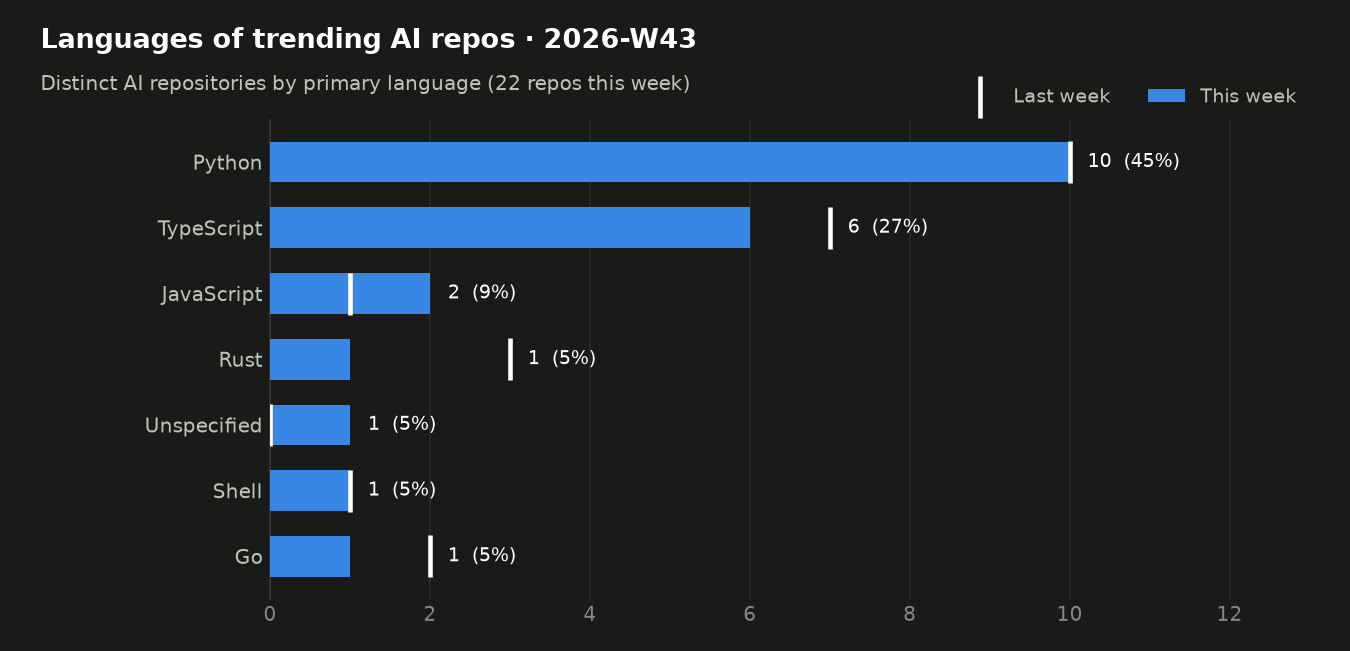
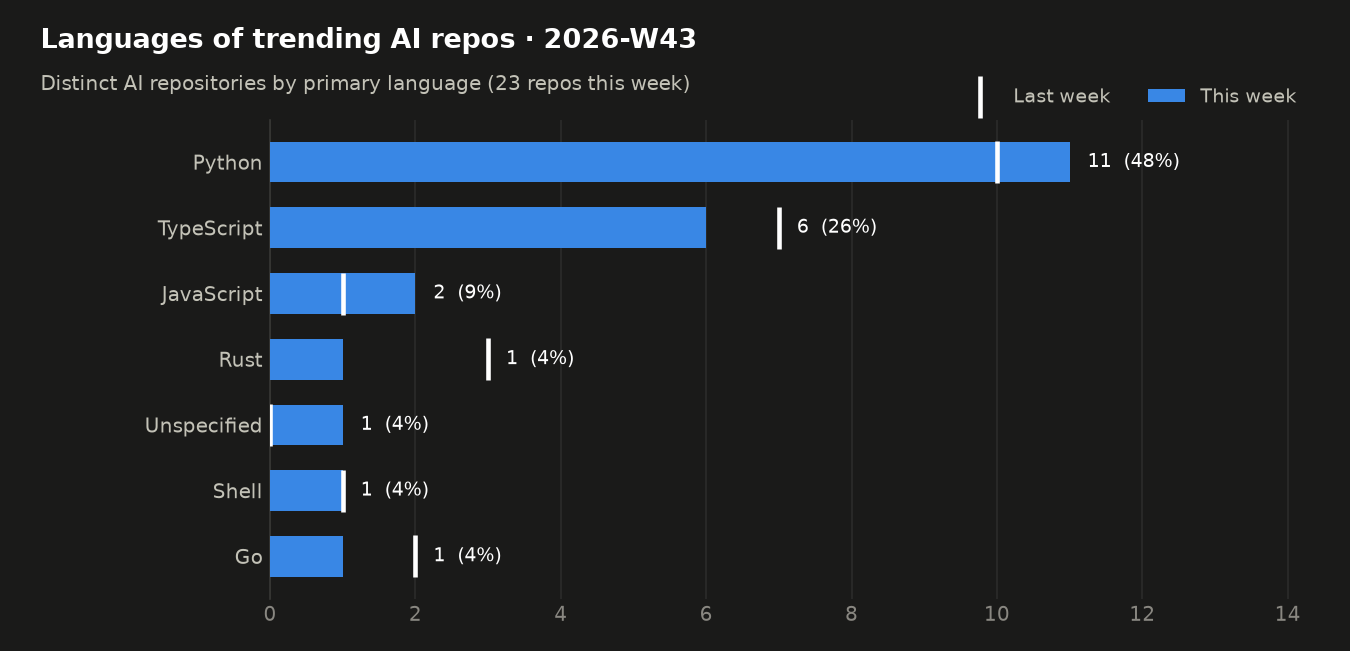
trending: snapshot 2026-10-23

diff --git a/README.md b/README.md
@@ -7,31 +7,26 @@ Every morning a GitHub Actions workflow reads the GitHub trending page, looks up
 ## Live view
 
 <!-- TRACKER_START -->
-### 🔥 AI repos trending today · 2026-10-22
+### 🔥 AI repos trending today · 2026-10-23
 
-11 of 12 trending repositories are AI-related.
+6 of 9 trending repositories are AI-related.
 
 | # | Repo | Language | ⭐ today | ⭐ total | Topics |
 |--:|---|---|--:|--:|---|
-| 1 | [cloudflare/security-audit-skill](https://github.com/cloudflare/security-audit-skill)<br><sub>Star cloudflare / security-audit-skill A coding-agent skill for multi-phase security audit…</sub> | JavaScript | 2,012 | 37,469 | – |
-| 2 | [vllm-project/vllm](https://github.com/vllm-project/vllm)<br><sub>Sponsor Star vllm-project / vllm A high-throughput and memory-efficient inference and serv…</sub> | Python | 441 | 95,022 | `amd` `blackwell` `cuda` `deepseek` |
-| 3 | [stablyai/orca](https://github.com/stablyai/orca)<br><sub>Star stablyai / orca Orca is the place for working with a fleet of agents (e.g. Grok Bot, …</sub> | TypeScript | 1,541 | 101,811 | `ade` `agent-ide` `ai-agents` `automation` |
-| 4 | [headroomlabs-ai/headroom](https://github.com/headroomlabs-ai/headroom)<br><sub>Star headroomlabs-ai / headroom Compress tool outputs, logs, files, and RAG chunks before …</sub> | Python | 474 | 77,411 | `agent` `ai` `anthropic` `claude-code` |
-| 5 | [DietrichGebert/ponytail](https://github.com/DietrichGebert/ponytail)<br><sub>Sponsor Star DietrichGebert / ponytail Makes your AI agent think like the laziest senior d…</sub> | JavaScript | 2,079 | 172,190 | `agent-skills` `ai-agents` `claude` `claude-code` |
-| 6 | [Comfy-Org/ComfyUI](https://github.com/Comfy-Org/ComfyUI)<br><sub>Star Comfy-Org / ComfyUI The most powerful and modular diffusion model GUI, api and backen…</sub> | Python | 939 | 141,738 | `ai` `comfy` `comfyui` `python` |
-| 7 | [supabase/supabase](https://github.com/supabase/supabase)<br><sub>Sponsor Star supabase / supabase The Postgres development platform. Supabase gives you a d…</sub> | TypeScript | 504 | 113,174 | `ai` `alternative` `auth` `database` |
-| 8 | [twentyhq/twenty](https://github.com/twentyhq/twenty)<br><sub>Star twentyhq / twenty The open alternative to Salesforce, designed for AI.</sub> | TypeScript | 112 | 59,398 | `crm` `crm-system` `customer` `good-first-issue` |
-| 10 | [strelov1/freehire](https://github.com/strelov1/freehire)<br><sub>Sponsor Star strelov1 / freehire freehire — the open-source search engine for job seekers</sub> | Go | 360 | 2,563 | `ats` `career` `careers` `golang` |
-| 11 | [akitaonrails/ai-memory](https://github.com/akitaonrails/ai-memory)<br><sub>Star akitaonrails / ai-memory Solution for long term memory for agent coding CLIs and to f…</sub> | Rust | 286 | 12,537 | – |
-| 12 | [Graphify-Labs/graphify](https://github.com/Graphify-Labs/graphify)<br><sub>Star Graphify-Labs / graphify Turn any codebase, with its docs, SQL schemas, configs, and …</sub> | Python | 1,433 | 132,017 | `ai-agents` `antigravity` `ast` `claude-code` |
+| 2 | [anthropics/knowledge-work-plugins](https://github.com/anthropics/knowledge-work-plugins)<br><sub>Star anthropics / knowledge-work-plugins Open source repository of plugins primarily inten…</sub> | Python | 303 | 31,791 | – |
+| 3 | [DietrichGebert/ponytail](https://github.com/DietrichGebert/ponytail)<br><sub>Sponsor Star DietrichGebert / ponytail Makes your AI agent think like the laziest senior d…</sub> | JavaScript | 1,948 | 173,995 | `agent-skills` `ai-agents` `claude` `claude-code` |
+| 4 | [cloudflare/security-audit-skill](https://github.com/cloudflare/security-audit-skill)<br><sub>Star cloudflare / security-audit-skill A coding-agent skill for multi-phase security audit…</sub> | JavaScript | 2,979 | 40,204 | – |
+| 5 | [Graphify-Labs/graphify](https://github.com/Graphify-Labs/graphify)<br><sub>Star Graphify-Labs / graphify Turn any codebase, with its docs, SQL schemas, configs, and …</sub> | Python | 1,408 | 133,336 | `ai-agents` `antigravity` `ast` `claude-code` |
+| 6 | [supabase/supabase](https://github.com/supabase/supabase)<br><sub>Sponsor Star supabase / supabase The Postgres development platform. Supabase gives you a d…</sub> | TypeScript | 693 | 113,607 | `ai` `alternative` `auth` `database` |
+| 8 | [luongnv89/claude-howto](https://github.com/luongnv89/claude-howto)<br><sub>Sponsor Star luongnv89 / claude-howto A visual, example-driven guide to Claude Code — from…</sub> | Python | 177 | 43,546 | `claude-code` `guide` `tutorial` |
 
 ### 📊 This week so far · 2026-W43
 
 #### Summary
 
-- **22** distinct AI repos trended over 4 day(s) (last week: 27)
-- AI share of all trending slots: **84%** (+6 pts vs last week)
-- Dominant language: **Python** (45% of AI repos)
+- **23** distinct AI repos trended over 5 day(s) (last week: 27)
+- AI share of all trending slots: **82%** (+4 pts vs last week)
+- Dominant language: **Python** (48% of AI repos)
 - Rising topics: `cursor` (+3), `postgresql` (+3), `claude-code-plugin` (+2), `cursor-rules` (+2), `langchain` (+2)
 - New this week: `cursor`, `postgresql`, `pytorch`, `langchain`, `claude-code-plugin`, `cursor-rules`
 
@@ -41,13 +36,13 @@ Every morning a GitHub Actions workflow reads the GitHub trending page, looks up
 
 | Language | Repos | Share | Last week |
 |---|--:|--:|--:|
-| Python | 10 | 45% | 10 |
-| TypeScript | 6 | 27% | 7 |
+| Python | 11 | 48% | 10 |
+| TypeScript | 6 | 26% | 7 |
 | JavaScript | 2 | 9% | 1 |
-| Rust | 1 | 5% | 3 |
-| Unspecified | 1 | 5% | 0 |
-| Shell | 1 | 5% | 1 |
-| Go | 1 | 5% | 2 |
+| Rust | 1 | 4% | 3 |
+| Unspecified | 1 | 4% | 0 |
+| Shell | 1 | 4% | 1 |
+| Go | 1 | 4% | 2 |
 
 #### Topics
 
@@ -55,7 +50,7 @@ Every morning a GitHub Actions workflow reads the GitHub trending page, looks up
 
 | Topic | Repos this week |
 |---|--:|
-| `claude-code` | 7 |
+| `claude-code` | 8 |
 | `ai-agents` | 6 |
 | `mcp` | 4 |
 | `codex` | 4 |
@@ -75,17 +70,17 @@ Every morning a GitHub Actions workflow reads the GitHub trending page, looks up
 | [stablyai/orca](https://github.com/stablyai/orca) | TypeScript | 4 | 5,842 | 101,811 |
 | [Comfy-Org/ComfyUI](https://github.com/Comfy-Org/ComfyUI) | Python | 4 | 3,310 | 141,738 |
 | [MadsLorentzen/ai-job-search](https://github.com/MadsLorentzen/ai-job-search) | Python | 3 | 9,949 | 61,499 |
+| [cloudflare/security-audit-skill](https://github.com/cloudflare/security-audit-skill) | JavaScript | 3 | 6,703 | 40,204 |
+| [DietrichGebert/ponytail](https://github.com/DietrichGebert/ponytail) | JavaScript | 3 | 5,235 | 173,995 |
 | [anomalyco/opencode](https://github.com/anomalyco/opencode) | TypeScript | 3 | 3,965 | 219,234 |
+| [Graphify-Labs/graphify](https://github.com/Graphify-Labs/graphify) | Python | 3 | 3,643 | 133,336 |
 | [ruvnet/ruflo](https://github.com/ruvnet/ruflo) | TypeScript | 3 | 1,761 | 77,993 |
 | [akitaonrails/ai-memory](https://github.com/akitaonrails/ai-memory) | Rust | 3 | 1,464 | 12,537 |
 | [headroomlabs-ai/headroom](https://github.com/headroomlabs-ai/headroom) | Python | 3 | 1,333 | 77,411 |
-| [cloudflare/security-audit-skill](https://github.com/cloudflare/security-audit-skill) | JavaScript | 2 | 3,724 | 37,469 |
-| [DietrichGebert/ponytail](https://github.com/DietrichGebert/ponytail) | JavaScript | 2 | 3,287 | 172,190 |
-| [Graphify-Labs/graphify](https://github.com/Graphify-Labs/graphify) | Python | 2 | 2,235 | 132,017 |
 
 ➡ Last full weekly analysis: [2026-W42](reports/weekly/2026-W42.md) · [all reports](reports/weekly)
 
-_Tracking since 2026-10-01 · 22 day(s) of data · [raw data](data/trending.csv)_
+_Tracking since 2026-10-01 · 23 day(s) of data · [raw data](data/trending.csv)_
 <!-- TRACKER_END -->
 
 ## How it works
